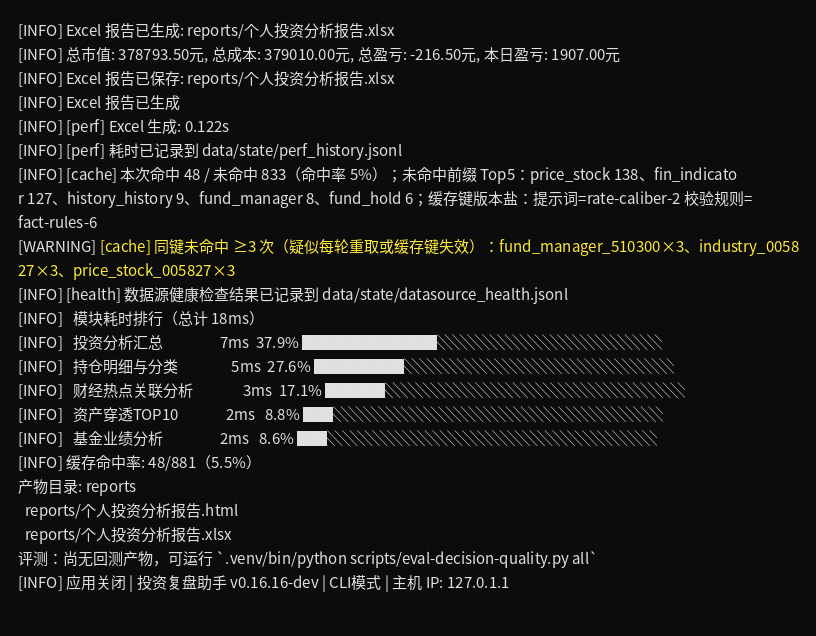
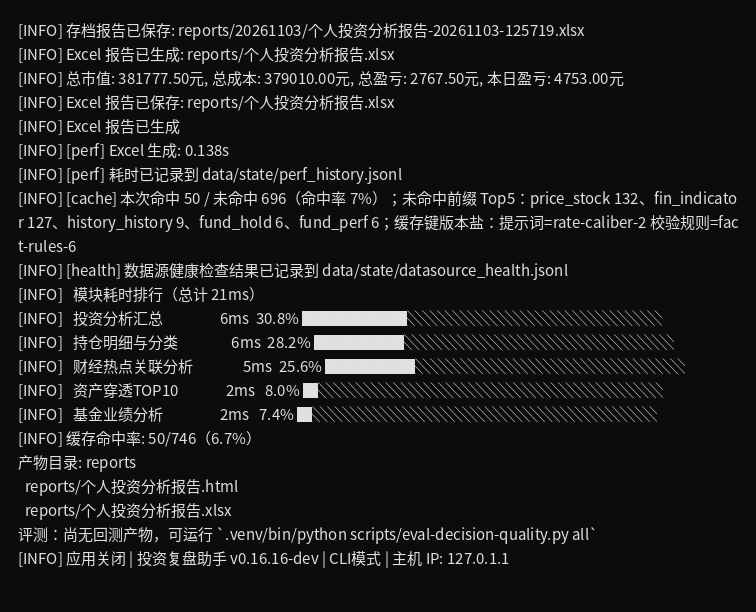
fix(fetcher): 批内重试不被失败记忆架空 + 窥视不计入未命中统计
架构约束自查：① 行业批量重试改走绕开会话缓存的专用取数（失败必须真重试），补「首试失败重试成功」用例；② fetch_cached_only 属只窥视不取数，缓存读改 record_stats=False，与负缓存探测器同口径；③ ProviderRegistry.reset() 补清在飞锁表；④ 行情会话级 single-flight 与风格判定带上名称，消除同一标的跨阶段重复取数；CLI 配图重制（告警行已消失）。

Changed region(s): [[0.0, 0.031, 0.9735, 0.9314]]

diff --git a/src/python/report/fund_style_classify.py b/src/python/report/fund_style_classify.py
@@ -114,7 +114,7 @@ def _push2_extended(code: str) -> dict[str, Any] | None:
         return None
 
 
-def _tencent_extended(code: str) -> dict[str, Any] | None:
+def _tencent_extended(code: str, name: str = "") -> dict[str, Any] | None:
     """从腾讯财经 API 获取市值+PE 扩展数据（二级降级）。
 
     结果以全天 TTL 写入文件缓存，同一股票同日内跨进程不重复请求。
@@ -140,7 +140,9 @@ def _tencent_extended(code: str) -> dict[str, Any] | None:
     try:
         from src.python.fetcher.price import fetch_market_data
 
-        data = fetch_market_data(code)
+        # 带上名称：行情会话缓存按 (代码, 名称) 分键（00 重叠区同码可能是股票与
+        # 场外基金两只证券），不传名称会与被持仓核算侧的带名调用分叉成两次取数。
+        data = fetch_market_data(code, name)
         if data is None:
             return None
 
@@ -246,7 +248,7 @@ def _get_industry_avg_pe(codes: list[str], names_by_code: dict[str, str] | None 
         return {}
 
 
-def _batch_tencent_extended(codes: list[str]) -> dict[str, dict[str, Any]]:
+def _batch_tencent_extended(codes: list[str], names: dict[str, str] | None = None) -> dict[str, dict[str, Any]]:
     """并发批量通过腾讯 API 获取多只股票的扩展数据。
 
     当 push2 熔断时作为批量降级方案，避免逐个串行请求。
@@ -269,7 +271,8 @@ def _batch_tencent_extended(codes: list[str]) -> dict[str, dict[str, Any]]:
         get_batch_worker_count("fund_style_workers", 8),  # 弱机器可配小
         thread_name_prefix="fund_style",
     ) as ex:
-        fut_map = {ex.submit(_tencent_extended, c): c for c in codes}
+        _names = names or {}
+        fut_map = {ex.submit(_tencent_extended, c, _names.get(c, "")): c for c in codes}
         for fut in as_completed(fut_map):
             c = fut_map[fut]
             try:
@@ -299,6 +302,9 @@ def _prefetch_extended_data(
         for h in holdings
         if (c := (h.get("code") or "").strip()) and c and is_a_share_stock(h.get("name", "") or "", c)
     ]
+    _names: dict[str, str] = {
+        (h.get("code") or "").strip(): (h.get("name") or "").strip() for h in holdings
+    }
     # 去重：同一股票跨基金不重复请求
     _seen: set[str] = set()
     _unique_codes = [c for c in _codes_to_fetch if not (c in _seen or _seen.add(c))]
@@ -314,7 +320,7 @@ def _prefetch_extended_data(
             reg.session_cache_set("extended", code, ext_data)
     # 并发批量腾讯回退（push2 熔断时的降级方案）
     if _need_tencent and not reg.is_circuit_broken("tencent_style"):
-        _batch_tencent_extended(_need_tencent)
+        _batch_tencent_extended(_need_tencent, _names)
 
 
 def _classify_stock_styles(

diff --git a/src/test/unit/fetcher/test_fetcher_industry.py b/src/test/unit/fetcher/test_fetcher_industry.py
@@ -275,8 +275,9 @@ class TestBatchFetchIndustryData(unittest.TestCase):
         get_registry().session_cache_clear("industry")
         result = batch_fetch_industry_data(["600900", "AAPL", "00700", "PEP"])
         self.assertEqual(result, {})
-        # AAPL/00700/PEP 被过滤；600900 失败结论进会话缓存，批内重试不再重探
-        self.assertEqual(mock_fetch.call_count, 1)
+        # AAPL/00700/PEP 被过滤；600900 失败 → 批内重试确实再取一次（双重降级治理"),
+        # 但重试走的是绕开会话缓存的路径，故首次失败不会把重试架空
+        self.assertEqual(mock_fetch.call_count, 2)
 
     @patch("src.python.fetcher.industry.fetch_industry_data")
     def test_all_us_stocks_return_empty(self, mock_fetch):
@@ -398,8 +399,34 @@ class TestBatchIndustryNegativeCache(unittest.TestCase):
 
     @patch("src.python.fetcher.industry.fetch_industry_data", return_value=None)
     def test_repeated_batch_calls_probe_once(self, mock_fetch):
+        """首批 1 次初探 + 1 次重试；第二批直接吃会话缓存结论，不再重探。"""
         from src.python.fetcher.industry import batch_fetch_industry_data
 
         assert batch_fetch_industry_data(["005827"]) == {}
+        first_round_calls = mock_fetch.call_count
+        assert first_round_calls == 2, "初探 1 次 + 重试 1 次（重试不得被失败记忆架空）"
         assert batch_fetch_industry_data(["005827"]) == {}
-        self.assertEqual(mock_fetch.call_count, 1, "同一代码跨批/跨阶段只探一次")
+        self.assertEqual(mock_fetch.call_count, first_round_calls, "跨批/跨阶段只探一次")
+
+
+class TestRetryNotAirgappedBySessionCache(unittest.TestCase):
+    """会话缓存记住失败结论后，批内重试仍须真取数（不得空转）。
+
+    双重降级治理：链路失败必须真重试，只有最终结论才进会话缓存；若重试也走
+    `fetch_industry_data_cached`，首次失败被记忆 → 重试瞬间返回 None，
+    「失败后重试」形同虚设。
+    """
+
+    def setUp(self):
+        from src.python.core.provider_registry import get_registry
+
+        get_registry().session_cache_clear("industry")
+
+    @patch("src.python.fetcher.industry.fetch_industry_data")
+    def test_retry_recovers_after_first_failure(self, mock_fetch):
+        mock_fetch.side_effect = [None, {"code": "600900", "industry": "电力"}]
+        from src.python.fetcher.industry import batch_fetch_industry_data
+
+        result = batch_fetch_industry_data(["600900"])
+        self.assertEqual(result["600900"]["industry"], "电力")
+        self.assertEqual(mock_fetch.call_count, 2, "重试必须真的再取一次")

diff --git a/src/python/fetcher/industry.py b/src/python/fetcher/industry.py
@@ -11,7 +11,6 @@ import logging
 import re
 from typing import Any
 
-from src.python.cache import get as cache_get
 from src.python.cache import get_ttl
 from src.python.core.code_utils import is_a_share_code
 from src.python.core.log_dedupe import log_throttled
@@ -145,6 +144,22 @@ def fetch_valuation_fields(code: str) -> dict[str, float | None] | None:
     return {"pe": data.get("pe"), "pb": data.get("pb")}
 
 
+def _retry_industry_fetch(code: str) -> dict | None:
+    """批内重试专用取数：绕开会话缓存，并把新结论回写。
+
+    会话缓存会记住失败结论（防同轮重探），若重试也走 `fetch_industry_data_cached`，
+    首次失败即被记忆、重试退化为空转——「失败后重试」这条降级治理要求因此失效
+    （双重降级治理：链路失败必须真重试，只有最终结论才进会话缓存）。
+    """
+    from src.python.core.provider_registry import get_registry
+
+    result = fetch_industry_data(code)
+    get_registry().session_cache_set(
+        "industry", code, result, source="api" if result is not None else "miss"
+    )
+    return result
+
+
 def batch_fetch_industry_data(codes: list[str]) -> dict[str, dict]:
     """批量获取多只证券的行业分类和概念板块归属。
 
@@ -220,8 +235,16 @@ def batch_fetch_industry_data(codes: list[str]) -> dict[str, dict]:
     ]
 
     def _cache_check(cache_id: str) -> Any:
-        """缓存命中判据：按 TTL 读取。"""
-        return cache_get(cache_id, get_ttl("industry"))
+        """批前预检只看会话缓存（已结案即跳过调度）。
+
+        文件缓存探测有意留在任务内的 `fetch_with_fallback`：那里已由会话级
+        single-flight 收口，每个代码一轮只探一次；若此处直接 `cache_get`，
+        三个并行报告阶段会为同一只标的各记一次未命中（实测 `industry_005827` ×3），
+        而「同键未命中」告警本应只指向真实重探。
+        """
+        code = cache_id[len(_INDUSTRY_CACHE_PREFIX) :]
+        cached = _registry.session_cache_get("industry", code)
+        return None if cached is NOT_FOUND else cached
 
     results = dispatcher.execute_with_cache_check(
         items,
@@ -232,7 +255,7 @@ def batch_fetch_industry_data(codes: list[str]) -> dict[str, dict]:
     # 通用重试（复用主 executor）
     results = dispatcher.retry_failed(
         results,
-        task_factory=lambda idx: partial(fetch_industry_data_cached, code=a_codes[idx]),
+        task_factory=lambda idx: partial(_retry_industry_fetch, code=a_codes[idx]),
         delay=_BATCH_RETRY_DELAY,
         jitter=_BATCH_RETRY_JITTER,
     )

diff --git a/src/test/unit/core/test_trading_calendar.py b/src/test/unit/core/test_trading_calendar.py
@@ -304,8 +304,9 @@ class TestCalendarFailureCooldown:
         from src.python.core import trading_calendar as tc
 
         tc._reset_calendar_memo()
-        with _patch.object(tc, "_CAL_FAILURE_COOLDOWN_SECONDS", 60.0), _patch.object(
-            tc.time, "monotonic", return_value=1000.0
+        with (
+            _patch.object(tc, "_CAL_FAILURE_COOLDOWN_SECONDS", 60.0),
+            _patch.object(tc.time, "monotonic", return_value=1000.0),
         ):
             tc._calendar_failure_mark()
             assert tc._calendar_failure_active() is True
@@ -329,8 +330,9 @@ class TestCachedTradingDaysSingleSource:
             calls.append(key)
             return ["2026-11-02", "2026-11-03"]
 
-        with _patch.object(tc.cache, "get", side_effect=_fake_get), _patch.object(
-            tc.cache, "get_ttl", return_value=86400.0
+        with (
+            _patch.object(tc.cache, "get", side_effect=_fake_get),
+            _patch.object(tc.cache, "get_ttl", return_value=86400.0),
         ):
             assert tc.cached_trading_days() == ["2026-11-02", "2026-11-03"]
             assert tc.cached_trading_days() == ["2026-11-02", "2026-11-03"]
@@ -343,8 +345,9 @@ class TestCachedTradingDaysSingleSource:
         from src.python.core import trading_calendar as tc
 
         tc._reset_calendar_memo()
-        with _patch.object(tc.cache, "get", return_value=None), _patch.object(
-            tc, "_get_trading_calendar", side_effect=AssertionError("不得触网")
+        with (
+            _patch.object(tc.cache, "get", return_value=None),
+            _patch.object(tc, "_get_trading_calendar", side_effect=AssertionError("不得触网")),
         ):
             assert tc.cached_trading_days() == []
         tc._reset_calendar_memo()

diff --git a/src/python/fetcher/price.py b/src/python/fetcher/price.py
@@ -435,6 +435,10 @@ def price_kind_from_quote(data: dict | None) -> str | None:
     return PRICE_KIND_EXCHANGE
 
 
+#: 行情会话缓存域（同一次运行内同标的一次取数，见 `fetch_market_data`）
+_PRICE_SESSION_DOMAIN = "price"
+
+
 def fetch_market_data(code: str, expected_name: str = "") -> dict[str, Any] | None:
     """获取一只证券的市场行情（按代码类型自动路由 Provider Chain）。
 
@@ -450,7 +454,21 @@ def fetch_market_data(code: str, expected_name: str = "") -> dict[str, Any] | No
         None: 全部接口失败
     """
     code = code.strip()
+    # 会话级 single-flight：同一次运行内同一标的只取一次（失败也记）。
+    # 报告侧三个阶段（行情核算 / 风格判定 / 穿透）会并行查同一只标的，仅靠文件缓存
+    # 各自探测会让同一键记 3 次未命中（实测 price_stock_005827 ×3），把
+    # 「同键未命中」告警刷成噪音；行情在一次运行内不会变，缓存不改变语义。
+    from src.python.core.provider_registry import get_registry
 
+    return get_registry().session_cache_fetch(
+        _PRICE_SESSION_DOMAIN,
+        f"{code}|{(expected_name or '').strip()}",
+        lambda: _fetch_market_data_uncached(code, expected_name),
+    )
+
+
+def _fetch_market_data_uncached(code: str, expected_name: str = "") -> dict[str, Any] | None:
+    """`fetch_market_data` 的取数主体（不含会话缓存，供 single-flight 调用）。"""
     # 按代码类型选择数据路由（缓存键随路由分域，避免同代码跨路由串味）
     data_type, _needs_degrade = _route_price_request(code, expected_name)
 

diff --git a/src/python/core/provider_registry.py b/src/python/core/provider_registry.py
@@ -626,7 +626,10 @@ class DataSourceRegistry:
             from src.python import cache as _cache
 
             key = cache_key_fn(code)
-            data = _cache.get(key, 86400 * 7)
+            # 这是**只看缓存**的窥视（不取数），未命中不代表需要拉取，故不计入
+            # 命中率与「同键未命中」告警——行情一次性核算里它会让同一键多记一次
+            # 未命中（实测 price_stock_005827 ×3 里含这一路），告警指向被稀释。
+            data = _cache.get(key, 86400 * 7, record_stats=False)
             if data is not None:
                 data = dict(data)  # 复制避免修改缓存原始对象
                 # 检查 price_date 是否匹配今天
@@ -680,6 +683,7 @@ class DataSourceRegistry:
             self._chains.clear()
         with self._cache_lock:
             self._session_cache.clear()
+            self._session_inflight.clear()
 
 
 # ── 工厂函数 ────────────────────────────────────────────

diff --git a/src/test/unit/core/test_provider_registry.py b/src/test/unit/core/test_provider_registry.py
@@ -591,3 +591,12 @@ class TestSessionCacheFetchSingleFlight:
         assert reg.session_cache_fetch("industry", "005827", _fetch) is None
         assert reg.session_cache_fetch("industry", "005827", _fetch) is None
         assert len(calls) == 1
+
+    def test_reset_clears_inflight_locks(self):
+        """reset() 须一并清空在飞锁表（否则测试间/长驻进程跨轮残留）。"""
+        reg = self._registry()
+        reg.session_cache_fetch("industry", "600519", lambda: {"industry": "白酒"})
+        assert reg._session_inflight, "取数后应留有在飞锁条目"
+        reg.reset()
+        assert not reg._session_inflight
+        assert not reg._session_cache

diff --git a/docs/managements/test-coverage.md b/docs/managements/test-coverage.md
@@ -12,16 +12,16 @@
 <!-- mode-count-table:start -->
 | `--mode` 值 | 覆盖项数 | 典型耗时 |
 |:------------|:--------:|:--------:|
-| `unit` | **12898** | ~1min |
-| `standard` | **11644** | ~28s |
+| `unit` | **12900** | ~1min |
+| `standard` | **11646** | ~28s |
 | `scenario` | **292** | ~6s |
 | `regression` | **292** | ~14s |
-| `dev-verify` | **9080** | ~1min |
-| `verify` | **12900** | ~29s |
+| `dev-verify` | **9082** | ~1min |
+| `verify` | **12902** | ~29s |
 | `integration` | **343** | ~16s |
 | `edge` | **1186** | ~12s |
 | `data` | **70** | ~5s |
-| `all` | **13243** | ~28s |
+| `all` | **13245** | ~28s |
 | `smoke` | **26** | ~4s |
 | `report` | **2796** | ~12s |
 | `all_no_unit` | **345** | ~11s |
@@ -108,12 +108,12 @@
 | 功能域 | 源模块（`src/python/`） | 对应测试文件（`src/test/`） | 覆盖项数 |
 |:-------|:-----------------------|:---------------------------|:--------:|
 | **数据源 Provider** | `providers/`(tencent, eastmoney, sina, tiantian, akshare_extras, datasink, cninfo, akshare_financial) | `unit/providers/test_{tencent,eastmoney,sina,tiantian,akshare_extras}.py` + `test_eastmoney_industry.py`（含 push2 估值字段 PE/PB 提取）+ `test_eastmoney_industry_rest.py`（行业数据 REST 接口）+ `test_eastmoney_index_edge.py`（push2his 指数 K 线边缘：无法映射/结构异常/重试耗尽/5xx 不重试）+ `test_sina_edge.py`/`test_tencent_edge.py` + `test_numeric_guard_regression.py`（非有限数值归一防线：各解析器非有限值拦截 + 合法输入行为不变）+ `test_cninfo.py`（财报备源：orgId 解析/文种归类与报告期推导/PDF 解析接缝与缺库降级/限速与 HTTP 分支）+ `test_provider_utils.py`（provider 失败原因载体：消费即清/线程隔离/链路尝试前清残值）+ `test_cassette_replay.py`（真实录制响应体解析 + **季报回放窗口锚定录制时点**的时间无关回归） + `test_tiantian_fund_fee.py`/`test_tiantian_fund_fee_edge.py`（F10 费用页申购/赎回费率表解析：阶梯/优惠费率/每笔固定费/载荷准入/akshare 备链与异常输入边缘） | 593 |
-| **数据获取调度** | `fetcher/`(price, index, fund, industry, chain, history_diff, source_adapter, quote_adapters, financial_report, report_adapters, financial_indicator_adapters) | `unit/fetcher/test_fetcher*.py` + `test_fund*.py` + `test_chain*.py` + `test_chain_diagnostics.py`（链路失败原因采集与可读渲染）+ `test_chain_overrides.py`（**调用级源覆盖 preferred/exclude**：排序/过滤/作用域/嵌套恢复/边界/优先级/CLI 接入）+ `test_fetcher_api_edge.py` + `test_source_adapter*.py`/`test_quote_adapter_parity.py`（数据源适配契约三段式与行情域三源等价性）+ `test_fetcher_industry.py`（估值字段网关：Provider Chain 路由 + push2 会话复用与按代码去重） + `test_financial_indicator.py`（财务指标链路：主源→解析支路降级、逐章节试取、源身份注入、多期直连路径传输级重试）+ `test_fund_fee.py`（申赎费率取数编排：链注册同构/四级降级阶梯/载荷准入不污染旧缓存/会话复用/`fetch_fee_index` 费率索引装配） | 702 |
+| **数据获取调度** | `fetcher/`(price, index, fund, industry, chain, history_diff, source_adapter, quote_adapters, financial_report, report_adapters, financial_indicator_adapters) | `unit/fetcher/test_fetcher*.py` + `test_fund*.py` + `test_chain*.py` + `test_chain_diagnostics.py`（链路失败原因采集与可读渲染）+ `test_chain_overrides.py`（**调用级源覆盖 preferred/exclude**：排序/过滤/作用域/嵌套恢复/边界/优先级/CLI 接入）+ `test_fetcher_api_edge.py` + `test_source_adapter*.py`/`test_quote_adapter_parity.py`（数据源适配契约三段式与行情域三源等价性）+ `test_fetcher_industry.py`（估值字段网关：Provider Chain 路由 + push2 会话复用与按代码去重） + `test_financial_indicator.py`（财务指标链路：主源→解析支路降级、逐章节试取、源身份注入、多期直连路径传输级重试）+ `test_fund_fee.py`（申赎费率取数编排：链注册同构/四级降级阶梯/载荷准入不污染旧缓存/会话复用/`fetch_fee_index` 费率索引装配） | 703 |
 | **新闻处理** | `providers/`(\*_news.py, news_aggregator, news_correlator, news_keywords, news_sources) | `unit/news/test_{akshare,cls,eastmoney,sina,wallstreetcn}_news.py` + `test_news_{aggregator,correlator,keywords,sources}.py`（akshare 含源内接口降级：主接口异常降级到补充接口 / 双接口失败返回空不抛） | 278 |
 | **报告生成** | `report/`(excel_generator, excel_module_loader, excel_sheet_factory, excel_market_data, excel_content_sheets, excel_news_warning, excel_fund_deep_analysis, excel_llm_usage, html, chart_data_builder, pipeline_data_builder, category, penetration, fund_performance, fund_candidate, market_value, summary, summary_llm_usage, news_correlation, qdii_timezone, fund_concentration, fund_manager, style_factor_sheet, portfolio_history, portfolio_history_drawdown_sheet, history_snapshot, position_structure_sheet, evolution_sheet, holding_change_panel, action_sheet, data_quality_sheet, decision_record, decision_llm_capture, decision_settlement, decision_review_block, signal_record, llm_quality, whatif_operations, whatif_sheet, whatif_writer, financial_report_digest, financial_indicator, fundamental_snapshot_sheet, fundamental_snapshot) | `unit/report/` 共 120 文件（含 `__init__.py`）含 test_html_writer、test_html_template、test_html_report_structure（导航结构：章节锚点/目录折叠/六组分组导航 + 页脚实验功能清单，拆分分片 test_html_report_structure_toc / test_html_report_structure_content）、test_llm_module_info（LLM 模块信息·Endpoint 汇总展示：主备排序标注/未映射不标注/去重）、test_position_structure_sheet、test_holdings_detail_sheet、test_fundamental_snapshot_sheet、test_fund_performance_manager_block、test_correlation_html、test_drawdown_html_excel（组合历史走势与回撤章：走势表 + 回撤矩阵 + 危机区间标注）、test_tail_risk_wiring（尾部风险接线：pipeline 注入 + Excel 五行 + HTML 卡）、test_style_factor_sheet（风格与因子分析章：基金风格表 + 风格因子回归 + 行业 Beta 子表）、test_fund_candidate（基金业绩分析章候选基金比较子表：候选校验/截断/开关门控/比较维度/重合度复用）、test_valuation_temperature_wiring（估值分位+市场温度报告层接线：穿透估值列 + 汇总温度行）、test_pipeline_data_builder（管线数据契约：crisis_annotation/tail_risk/snapshot_diff 三键注册 + 键台账与附录 H 同步校验）、test_whatif_operations、test_whatif_sheet、test_whatif_html、test_whatif_writer、test_whatif_cost_panel、test_whatif_cost_panel_edge（交易成本面板：成本契约装配/impact 手算/基准对齐与门控/换手翻转回归/异常与降级边缘）、test_evolution_sheet、test_evolution_html、test_holding_change_panel（持仓变动复盘面板：契约装配/双端单源/关态/提示词块与重排标注）、test_holding_change_panel_edge、test_action_sheet、test_action_html、test_decision_record（决策复盘·确定性登记）、test_decision_llm_capture（决策复盘·LLM 建议表解析登记：误导性操作格不登记回归 + 结构化决策头优先/回落矩阵）、test_decision_settlement（决策复盘·结算）、test_decision_review_block（决策复盘·复盘区块）、test_signal_record（确定性信号沉淀适配器：五类抽取 / 不可用占位跳过 / 聚合行与无代码行跳过 / 持仓级与组合级实时-非实时判定 / 幂等与开关无感）、test_llm_quality（LLM 输出评级：A~F 口径/横幅注入/Excel 载体契约/章节标记与提示词一致性锁）、test_data_quality_sheet、test_data_status_message（降级事件可读失败原因：message 透传 + 矩阵渲染优先取原因 + 无原因逐字回落）、test_experimental_seams（管线实验挂载点：开关关闭无感/开关开启生效/下游异常只告警不外抛 + 接线次序守卫）、test_chart_data_builder、test_theme_js、test_holdings_freshness（持仓报告期时效口径：写法兼容/季度数边界/阈值判定/缺失报告期不判陈旧）、test_penetration_sheet（穿透页签备注：剔除原因细分与明细 + 各基金报告期上屏）、test_penetration（合并/排序/TOP10 与比值归一；分类与报告期拆分分片 test_penetration_classify / test_penetration_report_periods（含持仓报告期陈旧闸门：陈旧基金剔除出 TOP10 并计入未穿透 + 报告期明细贯通））、test_excel_report_structure（用量页签实验功能清单：显示名逐项列出 / 零开关不出现 / 无会话用量时仍在 + 汇总页脚兜底落点：用量页签缺席或为空时写入 / 已载清单时不重复 / 无汇总页签时静默跳过）、test_html_report_structure（页脚实验功能清单：显示名顿号相连 / 零开关与漏传上下文均不出现空壳行 + 页脚句式与 Excel 落点逐字一致 + 报告期标注：陈旧剔除横幅 / 集中度报告期列与「无对比意义」/ 候选比较报告期注记 / 无陈旧项时零噪声）、（集中度区块用例并入 test_position_structure_sheet：报告期列 / 陈旧后缀 / 环比仅在报告期推进时呈现 / 首检基线）、test_fund_concentration（含报告期语义：同报告期不报环比 / 推进照常对比 / 旧快照维持原行为 / 快照记录报告期 / 未推进条目原样沿用）、test_html_fund_deep_renderers（HTML 基金深度分析渲染器：报告期标注与陈旧剔除同 Excel 口径）、test_fund_candidate（含真实入参形状：不 mock 计算引擎，风格列被填出 + 重合度按 Jaccard 精确取值 / 既有基金基准收集时序）、test_fund_roe_estimate（基金重仓股 ROE 加权估算：加权纯计算/陈旧闸门/非 A 股过滤/known_roe 免取数）、test_history_policy（历史走势获取策略 off/auto/prompt 单源）、test_anonymize_pipeline（报告管线匿名化接线：装配边界 pair 匿名/渲染层折叠/产物单元格清扫/新闻标签脱敏）等 | 2,796 |
 | **LLM 智能分析** | `llm/`(api, circuit_breaker, fingerprint, module_fingerprint, generators, generators_singletons, markdown, pricing, prompts, session, skeleton, llm_content, cost_tracker, fallback, prompts_signals, failure_reasons, prompts_data_blocks, prompts_review) | `unit/llm/`(含 API 路由/熔断/重试/降级/骨架/prompts/generators/辩论/cache、DeepSeek 峰谷定价/时段/时区/周末与法定节假日全天闲时规则/V4.1-Flash 正式模型名定价与 effort 族判定、Kimi k2.6/k3 定价锁定（单价/缓存命中价/无峰谷加成）、Kimi thinking 支持判定与默认开思考显式禁用安全网、信号预消化与结构化决策头提示词契约、模块指纹唯一事实来源同源校验（含提示词承载段与辩论综合键全文进键）、持仓变动提示词注入双轨（提取同源/附录含块/指纹条件并入/归因准入与写回） 等) | 1,645 |
 | **配置管理** | `config/`, `core/constants.py` | `unit/config/test_config*.py` + `test_edit_ops.py`（配置编辑共享层：白名单结构/值规则/写入与备份） + `test_features.py`（功能开关名解析与取数 + 开关注册表活性：每项开关须有消费者 / 陈旧开关不得回归 / 无消费者键加载时告警 + 开关注册表统一不变量：单条声明五字段齐备 / 分组覆盖全集不重不漏 / 默认值遵循分组 / 默认值字典为派生投影） | 602 |
-| **核心基础设施** | `core/`(cache, models, reader, experiment_stats, registry, data_registry, report_section_registry, circuit_breaker, http_client, atomic_write, jsonl_store, num_utils, cassette, datasource_credential, market_hours, code_utils, filesystem, log_reader, doctor, decision_ledger, signal_ledger, decision_header)、`provider_registry.py`、`tui/handlers_*.py` | `unit/core/` 全部（含 `test_decision_ledger.py`/`test_decision_ledger_edge.py` 决策账本、`test_signal_ledger.py`/`test_signal_ledger_edge.py` 确定性信号账本、`test_jsonl_store.py` JSONL 原子原语、`test_num_utils_edge.py` 数值归一、`test_cassette*.py` 请求回放、`test_datasource_credential*.py` 凭据就绪、`test_decision_header.py`/`test_decision_header_edge.py` 决策头解析、`test_doctor.py` 系统自检（八组检查含日志与缓存健康 / 永不抛异常契约 / 只读探测不留残留）、`*_edge.py`、`test_log_reader.py` 日志可视化）+ `unit/cache/` + `unit/handlers/`（含配置面板盒线等宽回归）+ `unit/core/test_system_info.py`（状态组装与展示原语）+ `unit/cache/test_cache_operations.py`（编排下沉）+ `unit/test_channel_layering.py`（三渠道薄壳纪律） | 2,286 |
+| **核心基础设施** | `core/`(cache, models, reader, experiment_stats, registry, data_registry, report_section_registry, circuit_breaker, http_client, atomic_write, jsonl_store, num_utils, cassette, datasource_credential, market_hours, code_utils, filesystem, log_reader, doctor, decision_ledger, signal_ledger, decision_header)、`provider_registry.py`、`tui/handlers_*.py` | `unit/core/` 全部（含 `test_decision_ledger.py`/`test_decision_ledger_edge.py` 决策账本、`test_signal_ledger.py`/`test_signal_ledger_edge.py` 确定性信号账本、`test_jsonl_store.py` JSONL 原子原语、`test_num_utils_edge.py` 数值归一、`test_cassette*.py` 请求回放、`test_datasource_credential*.py` 凭据就绪、`test_decision_header.py`/`test_decision_header_edge.py` 决策头解析、`test_doctor.py` 系统自检（八组检查含日志与缓存健康 / 永不抛异常契约 / 只读探测不留残留）、`*_edge.py`、`test_log_reader.py` 日志可视化）+ `unit/cache/` + `unit/handlers/`（含配置面板盒线等宽回归）+ `unit/core/test_system_info.py`（状态组装与展示原语）+ `unit/cache/test_cache_operations.py`（编排下沉）+ `unit/test_channel_layering.py`（三渠道薄壳纪律） | 2,287 |
 | **分析计算** | `analysis/`(liquidity, rebalance, fx_exposure, bond_yield, alignment_correction, drawdown_warning, drawdown_events, factor_exposure, industry_beta, correlation, crisis_annotation, tail_risk, portfolio_evolution, snapshot_diff, holding_change_events, holding_change_metrics, action_advisor, trade_discipline, rebalance_advisor, return_attribution, cost_flow, cost_position, whatif, whatif_backtest, valuation_percentile, market_temperature, metrics, financial_indicator_extract) | `unit/analysis/test_{liquidity,rebalance,bond_yield,fx_exposure,alignment_correction,drawdown_warning,drawdown_events,factor_exposure,industry_beta}*.py` + `test_correlation.py` + `test_correlation_edge.py` + `test_crisis_annotation.py` + `test_tail_risk.py` + `test_tail_risk_edge.py` + `test_portfolio_evolution.py` + `test_snapshot_diff.py` + `test_snapshot_diff_edge.py` + `test_holding_change_events.py`/`test_holding_change_events_edge.py`/`test_holding_change_metrics.py`（持仓变动复盘：事件抽取/边缘/指标与重排识别） + `test_action_advisor.py` + `test_trade_discipline.py` + `test_rebalance_advisor.py` + `test_return_attribution.py` + `test_cost_flow.py`（成本流水：XIRR/成本分档/分红累计） + `test_cost_position.py`/`test_cost_position_edge.py`（持仓成本区间位置：百分位/clamp/中性值/窗口切片 + 退化序列/非有限值边缘） + `test_valuation_percentile.py`/`test_valuation_percentile_edge.py`（价格分位代理：收盘价提取/解析解/三档刻度）+ `test_market_temperature.py`/`test_market_temperature_edge.py`（三因子合成温度计）+ `test_metrics.py`/`test_metrics_edge.py`（量化指标：夏普/卡玛/集中度/胜率/换手/风险贡献/波动率/组合 Beta）+ `test_whatif.py` + `test_whatif_backtest.py` + `test_whatif_backtest_edge.py` + `test_trade_cost_model.py`/`test_trade_cost_model_edge.py`（交易成本模型：FIFO 档位手算/金额分档/批次重放/聚合契约与临界边缘）+ `test_benchmark_index_resolver.py`（基准指数三阶映射）+ `test_financial_indicator_extract.py`/`test_financial_indicator_extract_edge.py`（财务指标全文解析：真实年报夹具逐字段复现/行文变体/单位换算/精度切分/扣非排除/取值窗口边界/异常幅度） | 1,248 |
 | **TUI 交互** | `tui/tui*.py`, `tui/status_line.py`, `tui/handlers*.py`, `tui/tui_keys.py`, `tui/text_layout.py` | `unit/ui/test_{tui_keys,tui_handlers,tui_menu}.py` + `test_tui_menu_status.py`（页头状态行：分项取数/动作提示键⊆主菜单/正常态无提示行；主循环退出通道：`0`/`X` 双退出、未映射键不误退、页脚提示与折行）+ `test_text_layout.py`（显示宽度口径 + 盒线面板等宽不变式 + 折行/截断原语）+ `unit/handlers/test_switch_panel_layout.py`（`[S]` 三档响应式排版：40~200 列不越界不变式、状态着色、窄屏 `k` 展开键名、操作后不整屏重绘）+ `test_handlers_log.py`（日志可视化 + 系统自检）+ `test_tui_edge.py` + `unit/startup/test_startup_wizard.py`（unit_ui 标记） | 543 |
 | **CLI 命令行** | `cli/cli.py`（门面）, `cli/_parser.py`, `cli/_handlers.py`, `cli/__main__.py`, `report/cli_progress.py` | `unit/cli/test_cli*.py`（含 doctor 子命令解析/处理/分派、模块入口退出码传递、报告完成后 LLM 成本与缓存命中率摘要调用、**调用级源指定 `--prefer-source` / `--exclude-source` 参数解析与覆盖作用域接入**/生效日 `--effective-date` argparse 类型钩子（共享层归一化前置校验）） | 203 |
@@ -149,14 +149,14 @@
 
 | 标记 | 覆盖模块 | 覆盖项数 |
 |:-------|:---------|:--------:|
-| `unit`（父标记） | 全部 unit 子标记实测（collect 快照） | 12,898 |
+| `unit`（父标记） | 全部 unit 子标记实测（collect 快照） | 12,900 |
 | ├─ `unit_providers` | 数据源 Provider（腾讯/东方财富/天天基金/巨潮资讯等，含 push2 估值字段 PE/PB 提取 + 行业数据 REST 接口、push2his 指数 K 线映射与解析、非有限数值归一防线 safe_num 拦截、财报备源公告列表/文种归类/报告期推导/PDF 解析接缝、传输级失败连接级重试与重试耗尽上抛契约、挂起型不重试判据、provider 失败原因载体的消费即清与线程隔离；cassette 回放的季度窗口锚定录制时点故不随日期时移变红；F10 费用页费率表解析与载荷准入） | 593 |
-| ├─ `unit_fetcher` | 数据获取调度（价格/指数/基金/行业/API 异常/熔断预检/冷却恢复/链路失败原因采集 FailureDiagnostics/数据源适配契约三段式与行情域三源等价性/估值字段网关（Provider Chain 路由 + push2 会话复用与按代码去重）/财务指标链路（主源→解析支路降级）+ 持仓基本面章（财务指标/财报摘要）装配与合并页签/管线契约台账/财报域备源（适配器登记/命名空间隔离/主源可用时备源零调用、传输级失败在编排层的降级护栏（索引转备源/章节清单回退偏好名）/HHI 集中度优化收敛 metrics_risk.hhi 唯一原语（幂等归一/退化语义一致）/申赎费率取数编排（F10→akshare 备链→过期缓存→配置兜底的四级降级与会话复用）） | 702 |
+| ├─ `unit_fetcher` | 数据获取调度（价格/指数/基金/行业/API 异常/熔断预检/冷却恢复/链路失败原因采集 FailureDiagnostics/数据源适配契约三段式与行情域三源等价性/估值字段网关（Provider Chain 路由 + push2 会话复用与按代码去重）/财务指标链路（主源→解析支路降级）+ 持仓基本面章（财务指标/财报摘要）装配与合并页签/管线契约台账/财报域备源（适配器登记/命名空间隔离/主源可用时备源零调用、传输级失败在编排层的降级护栏（索引转备源/章节清单回退偏好名）/HHI 集中度优化收敛 metrics_risk.hhi 唯一原语（幂等归一/退化语义一致）/申赎费率取数编排（F10→akshare 备链→过期缓存→配置兜底的四级降级与会话复用）） | 703 |
 | ├─ `unit_llm` | LLM 模块（API 路由/熔断/指纹/骨架/prompts/generators/llm_content 写入/Token 成本跟踪/**合规声明集中注入（幂等叠加/角色追加项/空 prompt 保护/call_llm 单一漏斗接线）/**报告深度档位（档位表结构派生自注册表/非法值回落/只收窄不放大已关模块/新闻下界）/**生成后自检（开关关闭零调用/上游无产出跳过/固定非质量保证尾注/调用异常不外抛/注册纪律不在并行表/指纹内容寻址）**/降级回退/DeepSeek 峰谷定价含时段判定/时段/时区/周末与法定节假日全天闲时规则设置/V4.1-Flash 正式模型名定价与 effort 族判定/Kimi k2.6/k3 定价锁定（单价/缓存命中价/无峰谷加成）/Kimi thinking 支持判定与默认开思考显式禁用安全网/信号预消化（资金流方向标注与排名/信号块/缓存后缀）/结构化决策头提示词契约（开关关闭逐字节不变/契约可解析/指纹换键）/模块指纹唯一事实来源同源校验（含提示词承载段与辩论综合键全文进键）/穿透占比严格读契约字段且缺失告警）/申购限购约束块注入（附录第 4 段组装守卫与缺省逐字节、四模块+辩论 pro/con/synthesis+自检+新闻批量成对、指纹三态与接线前基线、预检/写两侧同源））/429 限速诊断日志（两级并发配置回显与按「是否已到底」给建议、endpoint_key 透传接线（api_base 层 + 多链条目名下传至重试骨架）+ 429 回显 min_interval 现值 + 惰性装载同源取策略））/持仓变动提示词注入与归因（提取同源/四模块+辩论+自检附录携带/指纹条件并入/归因准入、信号窗与失败登记） | 1,645 |
 | ├─ `unit_news` | 新闻源（新浪/东方财富/财联社/华尔街见闻/akshare 财新·央视；akshare 源内接口降级与双接口失败空返回） | 278 |
 | ├─ `unit_report` | 报表生成（Excel/HTML 各页签写入、基金深度分析模块、风格与因子分析章（风格表 + 因子回归 + 行业 Beta 子表）、基金业绩分析章候选基金比较子表（candidate_compare 默认关）、数据降级/占位/可用性矩阵、调仓 What-if/组合演进/行动建议双端呈现、数据质量仪表盘、尾部风险接线、估值分位+市场温度接线、管线数据契约（含键台账与附录 H 同步校验）、HTML 分组导航折叠、Chart.js 图表数据构建/裁剪、暗色模式 theme.js、JS 资产内嵌单文件自包含、决策复盘（确定性/LLM 登记 + 结算 + 复盘区块 + 误导性操作格不登记回归 + 结构化决策头优先/回落矩阵）、LLM 输出评级（A~F 口径/横幅注入 + Excel 载体契约 + 章节标记与提示词一致性锁）、确定性信号沉淀适配器（五类抽取/不可用跳过/实时-非实时判定/幂等与开关）、交易成本面板（成本契约装配/成本前手算对照/基准对齐与门控/换手方向翻转回归/取数异常与降级边缘/双端一致）、降级事件可读失败原因（record message 透传 + 矩阵渲染优先取原因）、管线实验挂载点（开关关闭无感/开关开启生效/下游异常只告警不外抛 + 接线次序守卫）、基金持仓报告期时效（判定口径与阈值边界 + 穿透层陈旧闸门 + 页签备注上屏 + 集中度环比以报告期推进为前提 + 重合度矩阵剔除陈旧基金 + 风格/候选比较保留并标注报告期 + Excel/HTML 双端同口径）、报告生成条件标注（HTML 页脚 + Excel 用量页签/汇总页脚兜底落点的实验功能清单，零开关时各处均不出现，HTML 与 Excel 措辞同一单源）、候选基金比较真实入参形状（不 mock 计算引擎，风格/重合度两列须被填出）、LLM 模块 Endpoint 汇总展示（主备排序标注/未映射不标注/去重）、基金重仓股 ROE 加权估算（加权纯计算/陈旧闸门/非 A 股过滤/known_roe 免取数）/历史走势获取策略解析（off/auto/prompt 单源）/报告管线匿名化接线（装配边界 pair/渲染层折叠/产物清扫/新闻标签脱敏）/持仓成本区间位置契约（开关门控/降级/持仓明细条件列显隐/口径脚注）） | 2,796 |
 | ├─ `unit_config` | 配置管理（config/llm_settings/llm_key；含报告序号配置校验、enable_action 等板层开关、candidate_compare 访问器/comparison_candidates 校验、成本流水 cost_lots 开关访问器、实验功能名解析（注册表驱动）、已启用实验功能清单（按注册表顺序 / 显示名取注册表而非另写一份 / 仅实验开关入列）、产物自述准入口径（注册表条目须显式声明是否改变报告产物 / 只影响入口的项不进自述 / 系统自检开启时自述仍为空）、系统自检开关归类（默认开启 / 不在实验注册表 / 置 false 仍生效）、开关注册表活性（每项开关须有消费者 / 陈旧开关不得回归 / 无消费者键加载时合并告警）、功能开关注册表统一（单条声明五字段齐备 / 声明顺序即面板顺序 / 分组划分覆盖全集不重不漏 / 分组按作用域划分且默认值独立于分组 / 默认值字典是注册表的派生投影 / `--experiment` 取值域仍为实验项 / `--feature` 全域双向解析与归并去重）、LLM Provider 凭据分离校验（内联 api_key 硬拒绝 / credentials_ref 必填 / model 条目级覆盖透传）/配置模板与默认值一致性（含 batch 子键声明完整性不变式：代码引用 ⊆ 默认值）/配置编辑共享层（白名单结构/值规则/写入分派与写前备份/对比指数 action）） | 602 |
-| ├─ `unit_core` | 核心基础设施（缓存/数据模型/读者/注册表/统一熔断网关/持仓追踪器/批处理调度/命令处理器/日志读取 read_log/tail_log/parse_log/决策账本 decision_ledger 事件持久化与结算折叠/信号账本 signal_ledger 各信号类型评级登记与幂等折叠/实验功能使用统计 experiment_stats 启用计数与最近启用日期（含 doctor 账本概览/报告入口接线与写盘失败容错）/JSONL 原子原语 jsonl_store/文件写入原子原语 atomic_write（新建/覆盖/父目录创建/失败返回 False 且保留原内容/Windows 占用回退）/数值归一原语 num_utils/请求回放引擎 cassette/数据源凭据声明 datasource_credential/前缀缓存模块入菜单刷新组的形不变量（cache_groups）/决策头解析 decision_header 词表与归一判据/系统自检 doctor 环境-配置-目录-日志与缓存-开关-数据源适配-数据源凭据-数据源八组检查（含「永不抛异常」契约与目录探针隔离）/场外基金赎回天数类型默认档 otc_redemption_days_default/配置面板盒线等宽回归/系统状态组装与展示原语（熔断/路由/凭据回填/build 兕底）/缓存编排下沉（update_all 最大努力/warm 预热/stats 载荷）/三渠道薄壳纪律扫描（禁私有导入/禁写原语/禁字面量）） | 2,286 |
+| ├─ `unit_core` | 核心基础设施（缓存/数据模型/读者/注册表/统一熔断网关/持仓追踪器/批处理调度/命令处理器/日志读取 read_log/tail_log/parse_log/决策账本 decision_ledger 事件持久化与结算折叠/信号账本 signal_ledger 各信号类型评级登记与幂等折叠/实验功能使用统计 experiment_stats 启用计数与最近启用日期（含 doctor 账本概览/报告入口接线与写盘失败容错）/JSONL 原子原语 jsonl_store/文件写入原子原语 atomic_write（新建/覆盖/父目录创建/失败返回 False 且保留原内容/Windows 占用回退）/数值归一原语 num_utils/请求回放引擎 cassette/数据源凭据声明 datasource_credential/前缀缓存模块入菜单刷新组的形不变量（cache_groups）/决策头解析 decision_header 词表与归一判据/系统自检 doctor 环境-配置-目录-日志与缓存-开关-数据源适配-数据源凭据-数据源八组检查（含「永不抛异常」契约与目录探针隔离）/场外基金赎回天数类型默认档 otc_redemption_days_default/配置面板盒线等宽回归/系统状态组装与展示原语（熔断/路由/凭据回填/build 兕底）/缓存编排下沉（update_all 最大努力/warm 预热/stats 载荷）/三渠道薄壳纪律扫描（禁私有导入/禁写原语/禁字面量）） | 2,287 |
 | ├─ `unit_analysis` | 分析计算（流动性/再平衡/汇率/口径修正/回撤预警/回撤事件/因子暴露/行业 Beta/相关性矩阵/危机区间标注/尾部风险统计/组合演进/快照差异摘要/行动建议/交易纪律/调仓建议可行化层/收益归因/成本流水（XIRR/成本分档/分红累计）/持仓成本区间位置（成本价近 20/260 交易日价格区间百分位）/估值分位（价格分位代理）/市场温度（三因子合成）/量化指标（夏普/卡玛/集中度/胜率/换手/风险贡献/波动率/组合 Beta）/月度收益日历（按月聚合/截窗基线/胜亏平与连亏统计/双口径字段）/调仓 What-if 时序回测/财务指标全文解析（压平正文锚点提取）/景气度框架评分（含基金 ROE 推演值计分与三处推演标注、④维场外类型默认档与配置口径计分）/持仓变动复盘（事件抽取与净额口径/账户重排识别/意图对账与交易日模式）/交易成本模型（FIFO 批次判档/金额分档/临界持有期与零费率边缘）/基准指数三阶映射）） | 1,248 |
 | ├─ `unit_cli` | CLI 命令行模式（参数解析/路由/退出码/日志/view-logs 子命令/whatif 子命令/doctor 子命令（--offline/--timeout、config 之前分派、_EXIT_PARTIAL 退出码）/模块入口退出码传递 run_cli/报告完成后 LLM 成本与缓存命中率摘要方法调用/功能开关命令行通道：`--experiment`（只开实验项的简写，注册表驱动解析与本次运行增量启用，含早返回命令）与 `--feature NAME=VALUE`（全域双向、可重复、仅本次运行不写盘、未知名与取值非法即时报错、在 `--experiment` 之后应用故可覆盖其隐式置开）/生效日 argparse 类型钩子（共享层归一化前置校验）） | 203 |
 | ├─ `unit_ui` | TUI 交互（菜单/键盘/进度/错误提示/日志可视化查看日志与健康历史/受开关约束的菜单项门控 `_apply_feature_gates`（含默认配置下 `[T]` 即在菜单中）/文本显示宽度与盒线面板等宽不变式） | 543 |

diff --git a/docs/managements/folders.md b/docs/managements/folders.md
@@ -9,17 +9,17 @@
 >
 > | 类别 | 开发语言 | 文件数 | 代码行数 | 说明 |
 > |---|---|---|---|---|
-| 主程序代码 | Python | 421 | 115,698 | `src/` 下所有 `.py`（不含测试：`src/__init__.py` 顶层包标记 + `src/python/` 下 15 个 `__init__.py`，含 `web/` 服务层；近期新增 `providers/tiantian_purchase.py` 天天基金申购状态总表 provider + `fetcher/fund_purchase.py` 申购状态取数编排（双链路/准入/会话复用） + `core/jsonl_store.py` JSONL 原子原语 + `core/signal_ledger.py` 确定性信号账本 + `report/signal_record.py` 信号登记适配器 + `core/num_utils.py` 数值归一原语 + `core/doctor.py` 系统自检 + `core/cassette.py` 请求回放引擎 + `core/datasource_credential.py` 数据源凭据声明 + `fetcher/source_adapter.py` 适配契约 + `fetcher/quote_adapters.py` 行情域适配器 + `llm/module_fingerprint.py` 模块指纹唯一事实来源 + `report/_experimental_seams.py` 实验挂载点 + `report/holdings_freshness.py` 持仓报告期时效判定 + `report/experimental_notice.py` 实验功能清单语句单源 + `core/trading_calendar.py` 交易日历原语（时间距离一律以交易日计） + `providers/datasink.py` 全文本财报 provider（密钥/限速/配额） + `providers/hithink.py` 同花顺金融数据服务 provider（A 股行情/财务/基金/情绪面；凭据/qps 限速/信封错误码） + `fetcher/financial_report.py` 财报取数编排 + `fetcher/report_adapters.py` 财报域适配器 + `report/financial_report_digest.py` 财报摘要章节装配 + `providers/akshare_financial.py` 结构化财务指标主源 + `fetcher/financial_indicator_adapters.py` 财务指标域适配器 + `core/code_symbols.py::to_fmp_symbol` 共享符号映射 + `providers/utils.py::run_with_timeout` 共享取数超时原语 + `analysis/financial_indicator_extract.py` 财务指标全文解析（压平正文锚点提取，备用支路） + `fetcher/financial_indicator.py` 财务指标多期取数编排 + `analysis/financial_indicator.py` 财务指标派生（质量档/趋势/当前 PE·PB） + `report/financial_indicator.py` 财务指标章装配 + `report/holdings_detail_sheet.py` 持仓明细与分类 Excel 页签 + `report/position_structure_sheet.py` 持仓结构与集中度 Excel 页签 + `report/fundamental_snapshot_sheet.py` 持仓基本面 Excel 页签（三者均为章节合并写入器） + `llm/compliance.py` 合规声明集中注入（幂等叠加，单一漏斗覆盖全模块）） |
+| 主程序代码 | Python | 421 | 115,749 | `src/` 下所有 `.py`（不含测试：`src/__init__.py` 顶层包标记 + `src/python/` 下 15 个 `__init__.py`，含 `web/` 服务层；近期新增 `providers/tiantian_purchase.py` 天天基金申购状态总表 provider + `fetcher/fund_purchase.py` 申购状态取数编排（双链路/准入/会话复用） + `core/jsonl_store.py` JSONL 原子原语 + `core/signal_ledger.py` 确定性信号账本 + `report/signal_record.py` 信号登记适配器 + `core/num_utils.py` 数值归一原语 + `core/doctor.py` 系统自检 + `core/cassette.py` 请求回放引擎 + `core/datasource_credential.py` 数据源凭据声明 + `fetcher/source_adapter.py` 适配契约 + `fetcher/quote_adapters.py` 行情域适配器 + `llm/module_fingerprint.py` 模块指纹唯一事实来源 + `report/_experimental_seams.py` 实验挂载点 + `report/holdings_freshness.py` 持仓报告期时效判定 + `report/experimental_notice.py` 实验功能清单语句单源 + `core/trading_calendar.py` 交易日历原语（时间距离一律以交易日计） + `providers/datasink.py` 全文本财报 provider（密钥/限速/配额） + `providers/hithink.py` 同花顺金融数据服务 provider（A 股行情/财务/基金/情绪面；凭据/qps 限速/信封错误码） + `fetcher/financial_report.py` 财报取数编排 + `fetcher/report_adapters.py` 财报域适配器 + `report/financial_report_digest.py` 财报摘要章节装配 + `providers/akshare_financial.py` 结构化财务指标主源 + `fetcher/financial_indicator_adapters.py` 财务指标域适配器 + `core/code_symbols.py::to_fmp_symbol` 共享符号映射 + `providers/utils.py::run_with_timeout` 共享取数超时原语 + `analysis/financial_indicator_extract.py` 财务指标全文解析（压平正文锚点提取，备用支路） + `fetcher/financial_indicator.py` 财务指标多期取数编排 + `analysis/financial_indicator.py` 财务指标派生（质量档/趋势/当前 PE·PB） + `report/financial_indicator.py` 财务指标章装配 + `report/holdings_detail_sheet.py` 持仓明细与分类 Excel 页签 + `report/position_structure_sheet.py` 持仓结构与集中度 Excel 页签 + `report/fundamental_snapshot_sheet.py` 持仓基本面 Excel 页签（三者均为章节合并写入器） + `llm/compliance.py` 合规声明集中注入（幂等叠加，单一漏斗覆盖全模块）） |
 | HTML 报告模板 | HTML | 23 | 5,360 | `src/static/tmpl/report_template.html` + `whatif_template.html`（调仓 What-if 独立 HTML 页）+ `partials/`（章节级/区块级 partial，主模板按 TOC 六组经 Jinja include 拆入，清单见目录树 `partials/` 节点） |
 | 架构图示 | SVG | 4 | 396 | `src/static/` README 架构图（architecture 三渠道→引擎→双报告、llm-chain Provider 链式分发、capabilities 九大功能域总览、owl-mascot 吉祥物猫头鹰「守望」）+ 截图 7 张 PNG（报告实景 `report-overview`/`report-toc`/`report-charts` + 界面实景 `tui-menu`/`web-workbench`/`web-config`/`cli-report`，不计入本行） |
 | 辅助脚本 | Python | 143 | 28,872 | `scripts/`（启动脚本 + CLI 命令行包装、测试驱动、工具检查、任务编号检查、性能测试、LLM 幻觉率评测与因子目录评测、测试覆盖计数、代码/文档历史痕迹与结构性冗余检查、视觉资产（社交预览图/架构图体检）、语义命名索引校验、Claude Code hook 安装/校验、Web 冒烟脚本、push2 连通性诊断、SVG 架构图检查） |
-| 源代码合计 | — | 591 | 150,326 | 主程序 + 模板 + 脚本 + SVG |
-| 测试代码 | Python | 703 | 192,768 | `src/test/` 所有 `.py` 文件（含近期 ruff format 全仓重排） |
-| 测试用例 | — | — | 13,243 个 | `pytest --collect-only` 统计（`scripts/test-collect-coverage.py` 实时收集快照，不含 opt-in live 套件） |
+| 源代码合计 | — | 591 | 150,377 | 主程序 + 模板 + 脚本 + SVG |
+| 测试代码 | Python | 703 | 192,807 | `src/test/` 所有 `.py` 文件（含近期 ruff format 全仓重排） |
+| 测试用例 | — | — | 13,245 个 | `pytest --collect-only` 统计（`scripts/test-collect-coverage.py` 实时收集快照，不含 opt-in live 套件） |
 | 用户文档 | Markdown | 15 | 6,972 | 含 README.md；行数为 README + manuals 之和 |
 | ├ manuals/ | 用户手册分册 | 14 | 6,741 | 配置/faq/快速上手/TUI/CLI/Web 三种模式指南等 |
-| 项目文档 | Markdown | 209 | 72,822 | 含 CLAUDE.md；md 口径为 CLAUDE.md + `managements/` + `plan/` + 版本归档之和（分项见下方三行），py/txt 不计行 |
-| ├ managements/ | 管理文档 | 13 | 14,137 | 变更日志/目录树/测试计划/技术设计/开发者指南等 |
+| 项目文档 | Markdown | 209 | 72,824 | 含 CLAUDE.md；md 口径为 CLAUDE.md + `managements/` + `plan/` + 版本归档之和（分项见下方三行），py/txt 不计行 |
+| ├ managements/ | 管理文档 | 13 | 14,139 | 变更日志/目录树/测试计划/技术设计/开发者指南等 |
 | ├ archive/ | 版本归档 | 190 | 57,577 | 各版本 changelog/plan/review-findings 与设计文档归档（含 Vibe-Trading/gs-quant/TradingAgents 借鉴批候选研究、基金申购限购三份设计与 LLM 成本调节/自检/源指定设计） |
 | ├ plan/ | 中间设计文件 | 5 | ~1014 | 在办设计文档（扁平存放）：Jev 新闻关联判定（对照评测 + 类型化通道设计）+ 决策跨期反思闭环设计 + TUI 交互改进（议题 + 第一/二批实施方案） |
 | └ tmp/ | 临时文件 | — | — | 调试产物、迁移暂存（git 忽略，不计入统计） |

diff --git a/docs/managements/changelog.md b/docs/managements/changelog.md
@@ -44,6 +44,8 @@
 
 - **交易日历反复探源 + 会话级 single-flight 修复**：① `_get_trading_calendar` 首次装载时多个并发线程各自先读缓存文件（实测同一键一轮记 6 次未命中），现把首次探测也放进取数锁内并二次检查 memo，冷启动只串行一次、其余线程拿锁即命中（`trading_calendar×6` → 0）；② 新增取数失败冷却（`_CAL_FAILURE_COOLDOWN_SECONDS`，默认 300s）：日历与兜底源都不可用时一轮内不再重探，调用方照常回落周度判断；③ `core/data_freshness` 改走 `cached_trading_days()` 统一出口（共享 memo、失败冷却中不读盘），不再各自 `cache.get` 同一键；④ `ProviderRegistry.session_cache_fetch` 提供会话级 single-flight（按 (domain, code) 加锁 + 二次检查 + 失败结论同样缓存），`fetch_industry_data_cached` 改用它，三个报告阶段并行查同一只标的时只探一次（`industry_005827×16` → 3，余 3 次为并行阶段各自首次探测一个确实无数据的标的，非重复取数）。
 
+- **架构约束自查修复（会话级复用 / 双重降级治理 / 单例状态重置）**：① 会话级 single-flight 与失败记忆上线后，`batch_fetch_industry_data` 的批内重试仍走缓存变体 → 首次失败即被记忆，**重试空转**（违反双重降级治理「失败必须真重试」），改为重试专用取数 `_retry_industry_fetch`（绕开会话缓存取数后回写结论），并补「首试失败、重试成功」回归用例；② `fetch_cached_only`（只窥视不取数）的缓存读改 `record_stats=False`，不再计入命中率与「同键未命中」告警（与负缓存探测器同口径），行情核算的窥视不再稀释告警指向；③ `ProviderRegistry.reset()` 补清 `_session_inflight` 在飞锁表（新增持久状态必须可复位，避免跨轮/跨用例残留）；④ 十守护 + 设计护栏 E 级复跑全绿。
+
 - **R6 LLM 章语义增量（plan-243）**：`llm/prompts_action.py` 情景段末尾追加「信息不足以支撑方向判断时明确写『不操作』及所缺数据」（既有强制方向句逐字保留，只加不改；仅在情景段实际出现时追加，条件推理未配置情景与辩论跳过情景均不追加）；`llm/prompts_review.py` 自检清单新增第 4 项「结论是否附条件（失效条件/观察指标）」；`llm/module_fingerprint.py` 把 `PROMPT_SCHEMA_VERSION` 并入自检指纹分段构成（自检清单是静态文案、原内容寻址键不含文本版本，补此缺口后改清单即换键）；本刀不递增版本盐，与 R7 合并为同版本一次重算；单测覆盖三态追加（fallback/条件情景/无情景/辩论跳过）、既有强制句保留、自检第 4 项存在、自检指纹随版本盐变化。
 
 - **R7 提示语替换与解析兜底（plan-243）**：`llm/prompts_action.py` 情景段方向约束改为「条件化动作 + 触发条件，触发条件不满足即写明『不操作』及所缺数据」（默认口径），并保留强制方向口径作为回退常量（`decision_basis` 关闭即回退，回退口径以 `_ms` 缓存后缀换键，两套文本共存一版）；「每个建议必须引用具体品种」开口子（允许「不对具体品种动手 + 理由」）；`llm/rate_caliber.py` 的 `PROMPT_SCHEMA_VERSION` 递增为 `rate-caliber-2`——**本版首轮 LLM 缓存整批重算**（四主模块 + 辩论三段 + 自检；`news_item` 与 `holding_change` 不受影响），R6 的增量与本刀同时生效；`report/decision_llm_capture.py` 解析兜底：缺行/缺方向（含「不操作」行）跳过登记并按原因记 INFO，解析异常不中断报告生成；`requirements.md` 新增 R-LLM-ER-09 并修 R-LLM-ER-05、`testplan.md`/`technical.md` 语义命名表同步；单测覆盖两套口径切换、回退后缀、品种开口子、解析兜底三类跳过与异常兜底。真机采样（基线/新提示词各 5 次、同输入 A/B 各 10 次）挂账待人工执行。
